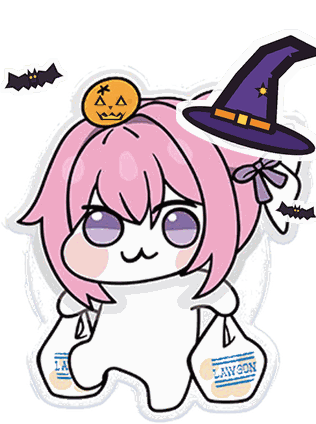
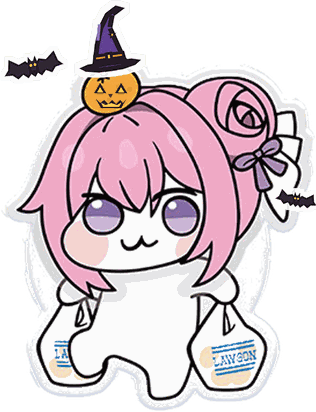
도로롱 할로윈: 큰 모자 대신 머리 위 잭오랜턴이 작은 마녀 모자를 쓰게
Claude-Session: https://claude.ai/code/session_015GuvKGyh8ChQWvv6aTLfdb

diff --git a/index.html b/index.html
@@ -448,8 +448,8 @@ textarea{min-height:110px;resize:vertical}
 .mochi:hover .bye,.mochi:focus-within .bye{opacity:1}
 @media (hover:none){.mochi .bye{opacity:.75}}
 @media (max-width:520px){.mochi{width:64px;height:74px}}
-.mochi.season{height:129px} /* 계절 그림은 모자 때문에 세로가 길다(316×424) */
-@media (max-width:520px){.mochi.season{height:86px}}
+.mochi.season{height:125px} /* 계절 그림은 모자 때문에 세로가 길다(316×412) */
+@media (max-width:520px){.mochi.season{height:83px}}
 @keyframes mochi-dance{0%,100%{transform:translateY(0) rotate(-7deg) scale(1.03,.97)}25%{transform:translateY(-8px) rotate(0) scale(.98,1.03)}50%{transform:translateY(0) rotate(7deg) scale(1.03,.97)}75%{transform:translateY(-8px) rotate(0) scale(.98,1.03)}}
 @keyframes mochi-spin{0%{transform:translateY(0) rotate(0)}40%{transform:translateY(-22px) rotate(200deg)}100%{transform:translateY(0) rotate(360deg)}}
 @media (prefers-reduced-motion:reduce){.mochi *{animation:none!important}}
@@ -1590,8 +1590,8 @@ function onAction(e){
   const box=$("#mochi"), say=$("#mochiSay"), back=$("#mochiBack");
   // 고정 대사 + 누를 때마다 보드 데이터로 만드는 대사(talkData). 짧게, 말끝은 "~롱"
   // 계절 옷: 날짜(JST 월-일)에 맞으면 그림·대사를 바꾼다. 그림은 assets/mascot_season.py 가 만든다. 미리 보기: 주소에 ?mochi=halloween
-  const SEASONS=[{id:"halloween",from:"10-15",to:"10-31",img:"assets/mascot_halloween.png",w:316,h:424,
-    lines:["트릭 오어 트릿이롱!","귤이 호박이 됐어롱","과자 안 주면 장난칠 거야롱","마녀 모자 어울려롱?","할로윈 콜라보 찾아봐롱","박쥐 친구들이랑 왔어롱"]}];
+  const SEASONS=[{id:"halloween",from:"10-15",to:"10-31",img:"assets/mascot_halloween.png",w:316,h:412,
+    lines:["트릭 오어 트릿이롱!","귤이 호박이 됐어롱","과자 안 주면 장난칠 거야롱","호박도 모자 썼어롱","할로윈 콜라보 찾아봐롱","박쥐 친구들이랑 왔어롱"]}];
   const md=jstYmd(new Date()).slice(5), want=(location.search.match(/[?&]mochi=(\w+)/)||[])[1];
   const SEA=SEASONS.find(x=>want?x.id===want:x.from<=md&&md<=x.to);
   if(SEA){const im=box.querySelector("img.dance");im.src=SEA.img;im.width=SEA.w;im.height=SEA.h;box.classList.add("season","season-"+SEA.id)}

diff --git a/assets/mascot_season.py b/assets/mascot_season.py
@@ -7,7 +7,7 @@ from PIL import Image, ImageDraw, ImageFilter
 
 HERE = os.path.dirname(os.path.abspath(__file__))
 S = 4            # 그리는 배율
-TOP = 64         # 모자가 들어가게 위로 늘리는 높이(원본 px)
+TOP = 52         # 모자가 들어가게 위로 늘리는 높이(원본 px)
 INK = (34, 24, 36, 255)
 
 
@@ -29,29 +29,24 @@ def rot(pts, c, deg):
     return [(cx + (x - cx) * math.cos(r) - (y - cy) * math.sin(r), cy + (x - cx) * math.sin(r) + (y - cy) * math.cos(r)) for x, y in pts]
 
 
-def witch_hat(W, H):
-    """보라 마녀 모자: 넓은 챙 + 끝이 꺾인 원뿔 + 주황 띠·금색 버클. 오른쪽 경단 머리 위에 오른쪽으로 기울여 얹는다."""
+def witch_hat(W, H, cx, by, wid, deg):
+    """보라 마녀 모자: 아래로 휜 챙(옆에서 본 납작한 타원 아래쪽 반) + 끝이 뒤로 꺾인 원뿔 + 주황 띠·금색 버클.
+    cx, by: 챙 가운데(원본 좌표), wid: 챙 너비, deg: 기울기. 2026-10 처음엔 경단 머리 위에 크게 얹었는데 떠 보여서, 머리 위 잭오랜턴(귤)이 쓰게 바꿨다."""
     L = Image.new("RGBA", (W, H), (0, 0, 0, 0)); d = ImageDraw.Draw(L)
-    c = P(246, 72); deg = 16; w = 7 * S
-    body, dark, band, gold = (92, 62, 140, 255), (70, 44, 112, 255), (245, 140, 40, 255), (250, 210, 70, 255)
-    cone = [P(206, 60), P(222, 16), P(238, -16), P(262, -34), P(292, -28), P(270, -14), P(258, 8), P(270, 60)]
-    cone = rot(cone, c, deg)
-    brim_box = [P(178, 50), P(316, 82)]
-    brim = Image.new("RGBA", (W, H), (0, 0, 0, 0)); bd = ImageDraw.Draw(brim)
-    bd.ellipse(brim_box, fill=dark, outline=INK, width=w)
-    brim = brim.rotate(-deg, center=c, resample=Image.BICUBIC)
-    L.alpha_composite(brim)
+    k = lambda x, y: P(cx + x * wid / 100, by + y * wid / 100)
+    w = 5 * S
+    body, dark, band, gold = (96, 64, 146, 255), (66, 42, 104, 255), (245, 140, 40, 255), (250, 210, 70, 255)
+    brim = [k(-50, 0), k(-40, 7), k(-20, 11), k(0, 12), k(20, 11), k(40, 7), k(50, 0), k(36, -4), k(0, -6), k(-36, -4)]
+    cone = [k(-28, -3), k(-20, -34), k(-10, -62), k(4, -82), k(22, -92), k(36, -86), k(18, -76), k(12, -58), k(20, -30), k(28, -3)]
+    d.polygon(brim, fill=dark, outline=INK, width=w)
     d.polygon(cone, fill=body, outline=INK, width=w)
-    d.line(cone + [cone[0]], fill=INK, width=w, joint="curve")
-    # 주황 띠 + 버클
-    b = rot([P(206, 50), P(270, 50), P(270, 64), P(206, 64)], c, deg)
-    d.polygon(b, fill=band, outline=INK, width=w // 2 + 2)
-    k = rot([P(230, 49), P(246, 49), P(246, 65), P(230, 65)], c, deg)
-    d.polygon(k, fill=gold, outline=INK, width=w // 2 + 1)
-    # 별 반짝이
-    sx, sy = rot([P(250, 24)], c, deg)[0]
-    star = [(sx + math.cos(math.radians(a)) * (9 if i % 2 == 0 else 4) * S, sy + math.sin(math.radians(a)) * (9 if i % 2 == 0 else 4) * S) for i, a in enumerate(range(-90, 270, 36))]
+    d.polygon([k(-27, -6), k(-25, -18), k(25, -18), k(27, -6)], fill=band, outline=INK, width=w // 2 + 2)
+    d.rectangle([k(-6, -19), k(6, -5)], fill=gold, outline=INK, width=w // 2 + 1)
+    d.line([k(-14, -40), k(-8, -66)], fill=(140, 110, 190, 255), width=S * 3)  # 빛 받은 면
+    sx, sy = k(10, -46)
+    star = [(sx + math.cos(math.radians(a)) * (7 if i % 2 == 0 else 3) * S * wid / 100, sy + math.sin(math.radians(a)) * (7 if i % 2 == 0 else 3) * S * wid / 100) for i, a in enumerate(range(-90, 270, 36))]
     d.polygon(star, fill=gold, outline=INK, width=S * 2)
+    if deg: L = L.rotate(deg, center=P(cx, by), resample=Image.BICUBIC)
     return L
 
 
@@ -89,7 +84,7 @@ def halloween():
     big = Image.new("RGBA", (W, H), (0, 0, 0, 0))
     big.alpha_composite(base.resize((w * S, h * S), Image.LANCZOS), (0, TOP * S))
     jack_face(ImageDraw.Draw(big))
-    big.alpha_composite(sticker(witch_hat(W, H), 6))
+    big.alpha_composite(sticker(witch_hat(W, H, 110, 12, 62, 8), 5))  # 잭오랜턴(귤, 가운데 x≈111·위 y≈8) 머리에
     big.alpha_composite(bat(W, H, 34, 18, 1.15, 12))
     big.alpha_composite(bat(W, H, 296, 150, .8, -10))
     out = big.resize((w, h + TOP), Image.LANCZOS)

diff --git a/README.md b/README.md
@@ -108,7 +108,7 @@ GitHub 웹에서 파일을 열고 연필 아이콘으로 고친 뒤 *Commit chan
 
 ## 도로롱 계절 옷
 
-할로윈(10/15~10/31)에는 도로롱이 마녀 모자를 쓰고 귤이 호박이 되며 할로윈 대사를 합니다. 그림은 `assets/mascot_season.py`로 만들었고, 직접 그린 계절 그림이 있으면 `assets/mascot_halloween.png`를 바꾸면 됩니다. 주소 끝에 `?mochi=halloween`을 붙이면 날짜와 상관없이 미리 볼 수 있습니다.
+할로윈(10/15~10/31)에는 도로롱 머리 위 귤이 마녀 모자를 쓴 호박이 되고, 박쥐가 날며 할로윈 대사를 합니다. 그림은 `assets/mascot_season.py`로 만들었고, 직접 그린 계절 그림이 있으면 `assets/mascot_halloween.png`를 바꾸면 됩니다. 주소 끝에 `?mochi=halloween`을 붙이면 날짜와 상관없이 미리 볼 수 있습니다.
 
 ## 도로롱 오미쿠지
 
